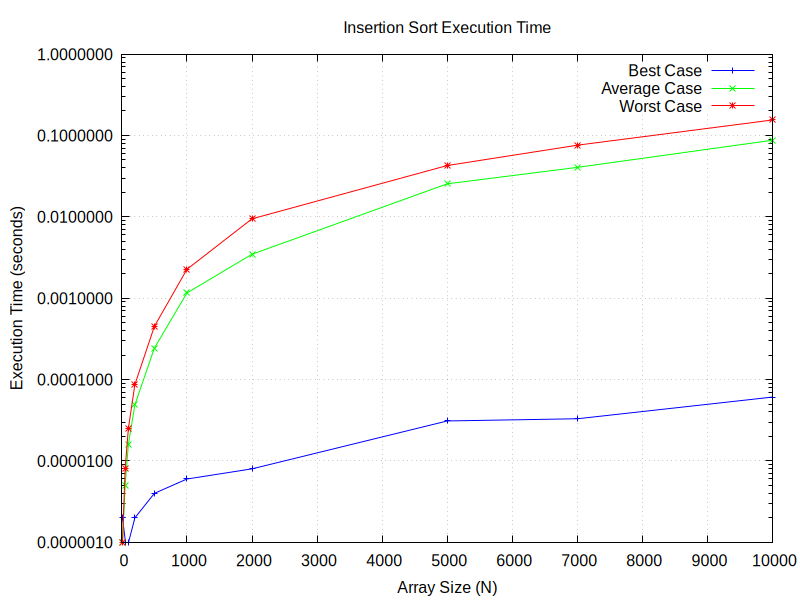
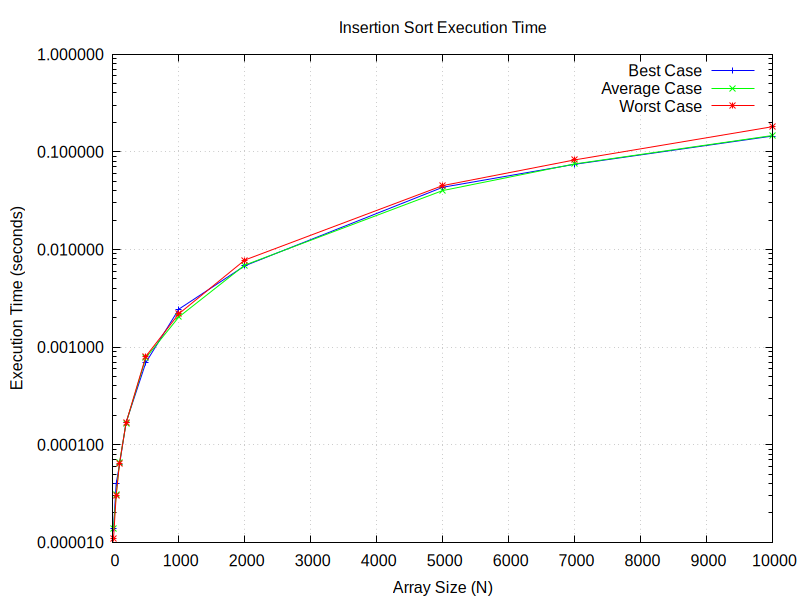
Implementacion algoritmo Selection Sort

diff --git a/src/selection_sort.c b/src/selection_sort.c
@@ -1,0 +1,27 @@
+#include "../include/selection_sort.h"
+#include "../include/insertion_sort.h"
+#include <stdio.h>
+void selection_sort(int arr[], int length)
+{
+    print_array(arr,length);
+    // [7, 3, 6, 9]
+    for ( int i = 0; i < length - 1; i++)
+    {
+        int lowest_index = i;
+        int lowest = arr[i];
+
+        for ( int j = i + 1; j < length; j++)
+        {
+            if ( arr[j] < lowest)
+            {
+                lowest_index = j;
+                lowest = arr[j];
+            }
+        }
+        arr[lowest_index] = arr[i];
+        arr[i] = lowest;
+    }
+
+    print_array(arr, length);
+}
+

diff --git a/src/time_measurement.c b/src/time_measurement.c
@@ -1,5 +1,6 @@
 #include "../include/time_measurement.h"
-#include "../include/insertion_sort.h"
+#include "../include/insertion_sort.h"  
+#include "../include/selection_sort.h"
 #include <time.h>
 
 
@@ -7,7 +8,8 @@ double measure_time(int arr[], int length)
 {
     clock_t t;
     t = clock();    
-    insertion_sort(arr, length);
+    selection_sort(arr, length);
+    //insertion_sort(arr, length);
     t = clock() - t;
     return ((double)t) / CLOCKS_PER_SEC; // in seconds
 }

diff --git a/src/main.c b/src/main.c
@@ -3,6 +3,7 @@
 #include "../include/test_cases.h"
 #include "../include/time_measurement.h"
 #include "../include/gnuplot_script.h"
+#include "../include/selection_sort.h"
 
 int main()
 {
@@ -61,6 +62,7 @@ int main()
     
     // Running Gnuplot from C
     system("gnuplot output/insertion_plot.gnuplot");
+
 
     return 0;
 }

diff --git a/include/insertion_sort.h b/include/insertion_sort.h
@@ -2,5 +2,5 @@
 #define INSERTION_SORT_H
 
 void insertion_sort(int arr[], int length);
-
+void print_array(int arr[], int length);
 #endif

diff --git a/include/selection_sort.h b/include/selection_sort.h
@@ -1,0 +1,6 @@
+#ifndef SELECTION_SORT_H
+#define SELECTION_SORT_H
+
+void selection_sort(int arr[], int length);
+
+#endif
